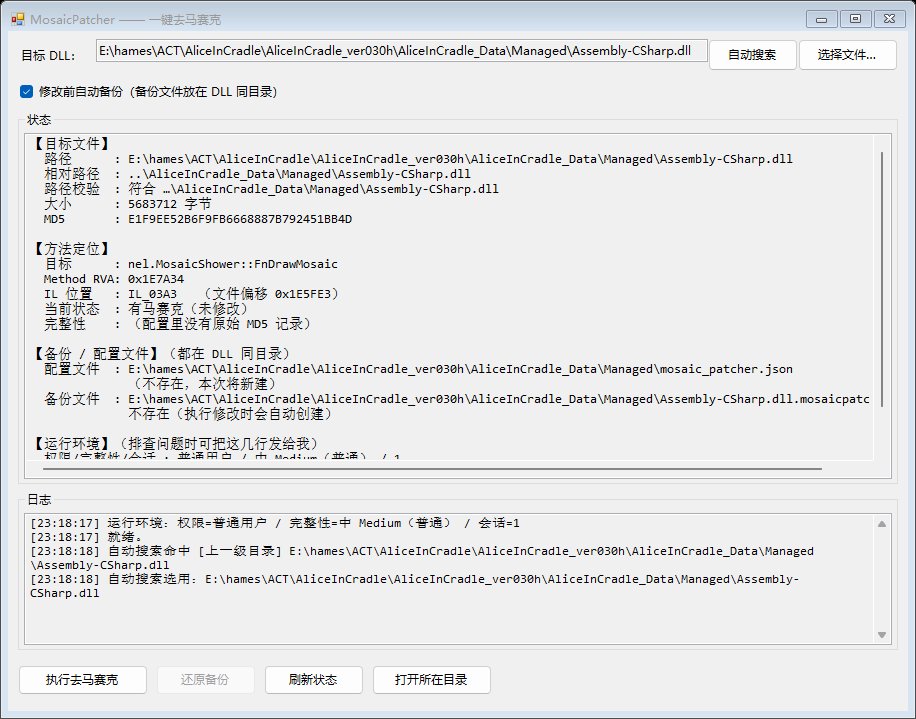
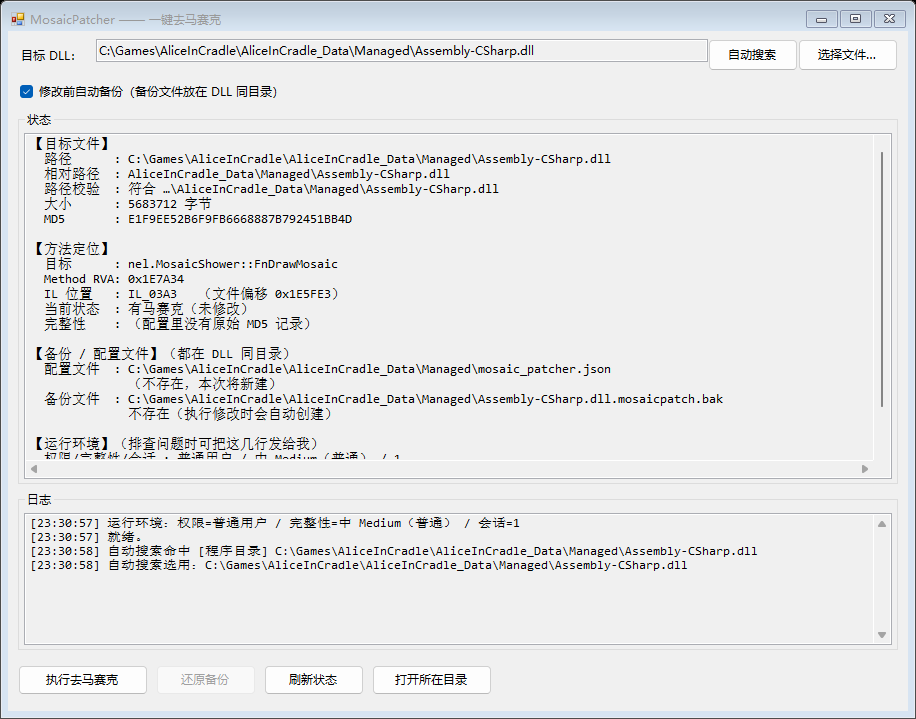
docs: 补齐仓库链接、CI 徽章、作者信息；更换为中性路径截图

diff --git a/README.md b/README.md
@@ -1,5 +1,7 @@
 # MosaicPatcher
 
+[![build](https://github.com/voidzi/AliceInCradle_MosaicPatcher/actions/workflows/build.yml/badge.svg)](https://github.com/voidzi/AliceInCradle_MosaicPatcher/actions/workflows/build.yml)
+
 > 一键关闭《Alice in Cradle》的马赛克显示（去马赛克）。
 > One-click patcher that disables the mosaic filter in *Alice in Cradle*.
 
@@ -40,7 +42,7 @@ return false;   // 不画马赛克
 
 ## 下载 / 使用
 
-1. 到 [Releases](../../releases) 下载 `MosaicPatcher.exe`
+1. 到 [Releases](https://github.com/voidzi/AliceInCradle_MosaicPatcher/releases/latest) 下载 `MosaicPatcher.exe`
 2. 放到**游戏根目录**（与 `AliceInCradle_Data` 同级）——放别处也行，它会自动搜索
 3. 双击运行 → 自动选中游戏的 `Assembly-CSharp.dll` → 点 **「执行去马赛克」**
 4. 想恢复原状，点 **「还原备份」**
@@ -68,6 +70,13 @@ MosaicPatcher.exe <任意命令> --out <文件>        把输出写进文件
 ```
 
 ## 从源码构建
+
+先克隆仓库：
+
+```bash
+git clone https://github.com/voidzi/AliceInCradle_MosaicPatcher.git
+cd AliceInCradle_MosaicPatcher
+```
 
 ### C# 版（推荐，不需要安装任何 SDK）
 
@@ -123,6 +132,10 @@ python MosaicPatcher.pyw
 - 请自行确认你已合法拥有该游戏，并遵守其最终用户许可协议（EULA）。
 - 本工具与游戏开发商 / 发行商**没有任何关联**，也未获其授权或认可。
 - 使用本工具产生的一切后果由使用者自行承担。
+
+## 作者
+
+- [@voidzi](https://github.com/voidzi)
 
 ## License
 
